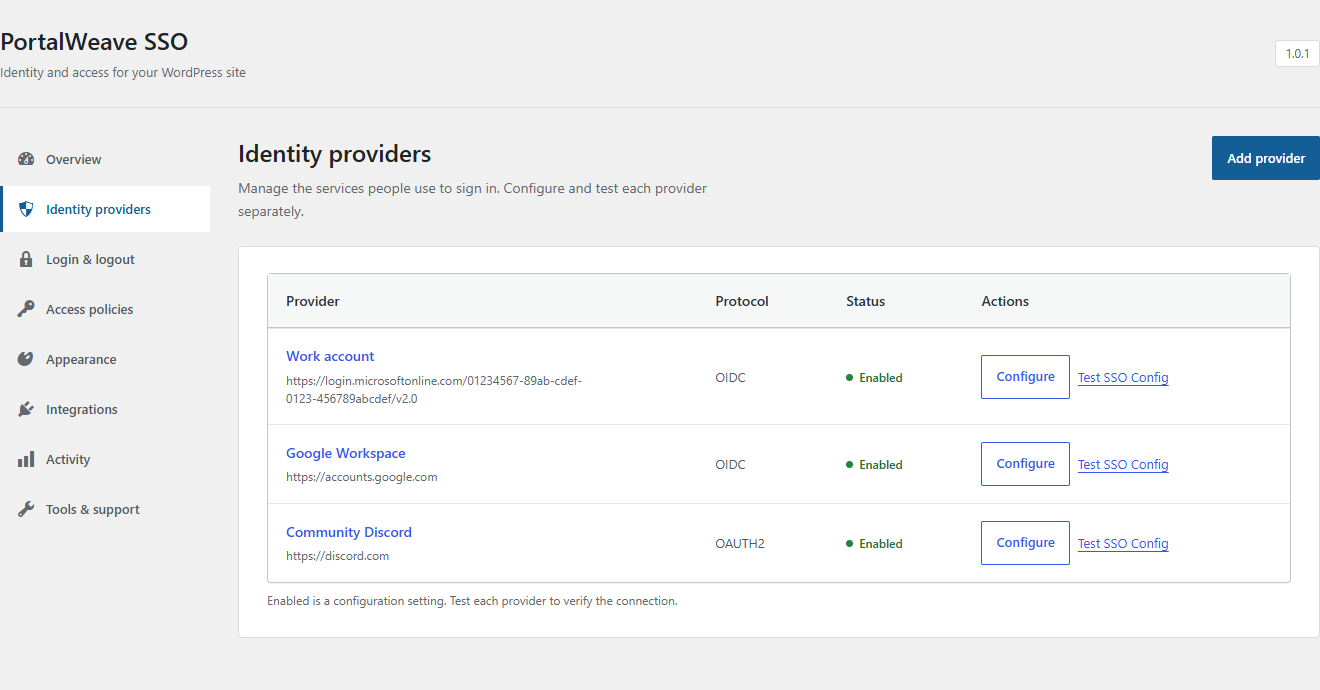
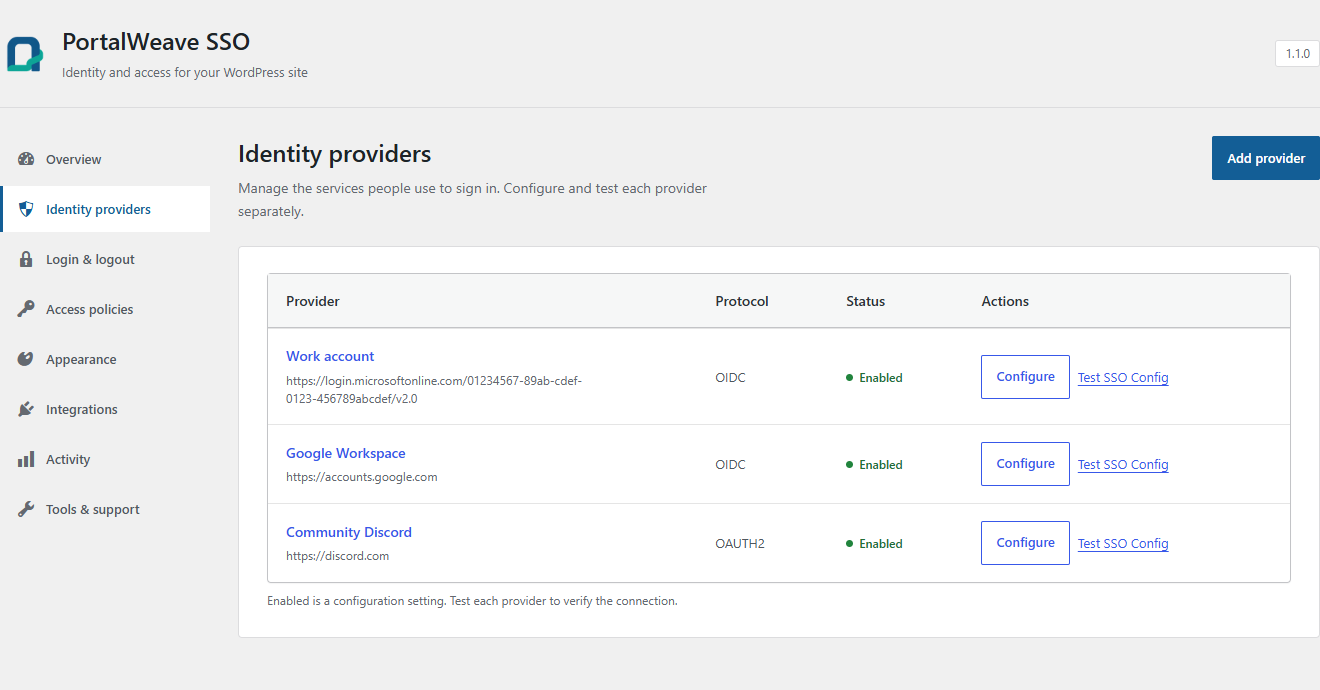
feat: display plugin branding throughout settings

Changed region(s): [[0.0, 0.0304, 0.2485, 0.1217], [0.9629, 0.0609, 0.9939, 0.0913]]

diff --git a/assets/admin.css b/assets/admin.css
@@ -47,6 +47,30 @@
     margin-bottom: 28px;
 }
 
+.portalweave-sso-brand {
+    display: flex;
+    align-items: center;
+    gap: 14px;
+    min-width: 0;
+}
+
+.portalweave-sso-brand-logo {
+    display: block;
+    flex: 0 0 48px;
+    width: 48px;
+    height: 48px;
+    object-fit: contain;
+}
+
+.portalweave-sso-brand-copy {
+    min-width: 0;
+    overflow-wrap: anywhere;
+}
+
+.portalweave-sso-header > .portalweave-sso-version {
+    flex-shrink: 0;
+}
+
 .portalweave-sso-header h1 {
     margin: 0;
     padding: 0;
@@ -1012,6 +1036,18 @@
         gap: 12px;
         padding: 20px 0;
         margin-bottom: 20px;
+    }
+
+    .portalweave-sso-brand {
+        align-items: flex-start;
+        gap: 10px;
+    }
+
+    .portalweave-sso-brand-logo {
+        flex-basis: 40px;
+        width: 40px;
+        height: 40px;
+        margin-top: 2px;
     }
 
     .portalweave-sso-header h1 {

diff --git a/includes/class-admin.php b/includes/class-admin.php
@@ -493,7 +493,7 @@ final class Admin {
         $notices = ['saved' => __('Changes saved.', 'portalweave-sso'), 'imported' => __('Configuration imported. Existing credentials were retained by app ID. Incomplete restored providers and login enforcement are disabled until you configure credentials and test SSO.', 'portalweave-sso'), 'sent' => __('Support message submitted to the WordPress mail service.', 'portalweave-sso')];
         // phpcs:ignore WordPress.Security.NonceVerification.Recommended -- Selects a display-only notice; error details come from the current administrator's server transient.
         $notice = self::request_key($_GET, 'portalweave_sso_notice');
-        echo '<div class="wrap portalweave-sso-admin"><header class="portalweave-sso-header"><div><h1>' . esc_html__('PortalWeave SSO', 'portalweave-sso') . '</h1><p>' . esc_html($network ? __('Single sign-on for your network', 'portalweave-sso') : __('Identity and access for your WordPress site', 'portalweave-sso')) . '</p></div><span class="portalweave-sso-version">' . esc_html(defined('PORTALWEAVE_SSO_VERSION') ? PORTALWEAVE_SSO_VERSION : '1.1.0') . '</span></header>';
+        echo '<div class="wrap portalweave-sso-admin"><header class="portalweave-sso-header"><div class="portalweave-sso-brand"><img class="portalweave-sso-brand-logo" src="' . esc_url(plugins_url('assets/branding/logo.png', PORTALWEAVE_SSO_FILE)) . '" srcset="' . esc_url(plugins_url('assets/branding/logo@2x.png', PORTALWEAVE_SSO_FILE)) . ' 2x" width="48" height="48" alt="" decoding="async"><div class="portalweave-sso-brand-copy"><h1>' . esc_html__('PortalWeave SSO', 'portalweave-sso') . '</h1><p>' . esc_html($network ? __('Single sign-on for your network', 'portalweave-sso') : __('Identity and access for your WordPress site', 'portalweave-sso')) . '</p></div></div><span class="portalweave-sso-version">' . esc_html(defined('PORTALWEAVE_SSO_VERSION') ? PORTALWEAVE_SSO_VERSION : '1.1.0') . '</span></header>';
         if ($notice === 'error') {
             $error = get_transient('portalweave_sso_admin_error_' . get_current_user_id());
             delete_transient('portalweave_sso_admin_error_' . get_current_user_id());

diff --git a/docs/admin-design.md b/docs/admin-design.md
@@ -65,6 +65,8 @@ The daily SVG has an accessible name and description, supplementary native hover
 
 The layout uses WordPress's inherited system font, white surfaces, cool gray borders and blue actions. Persistent task navigation provides hierarchy; the main content shows one task rather than a long page of unrelated controls. The setup workbench uses a genuine numbered sequence and a single main task beside its provider-console guidance, rather than repeated settings cards. On narrow screens the guide moves below the fields, progress wraps, navigation moves above content and the audit table scrolls within its container. Controls have visible keyboard focus, associated labels/help and generous touch targets. No remote fonts, frontend framework or production dependency was added.
 
+The shared site and network settings header pairs the product name with the local [PortalWeave SSO mark](branding/README.md), including during provider setup. The decorative image has empty alternative text beside the visible name, intrinsic dimensions and a high-resolution source. It scales from 48px to 40px on narrow screens; provider-specific logos retain their separate role in the chooser and setup guide.
+
 Provider artwork is local static media. Its per-file sources, hashes and retained terms are documented in `assets/providers/README.txt`; names and marks identify integrations without implying endorsement. Artwork does not automatically inherit the plugin code's GPL license. The chooser uses the actual provider marks rather than invented initials or unrelated service icons.
 
 The design work used the official [frontend-design skill](https://github.com/anthropics/skills/tree/main/skills/frontend-design) and [Playwright skill](https://github.com/openai/skills/tree/main/skills/.curated/playwright), with [WordPress menu guidance](https://developer.wordpress.org/plugins/administration-menus/) and [nonce guidance](https://developer.wordpress.org/apis/security/nonces/) informing integration with the host admin interface. Skills are development tools and are excluded from the plugin distribution.

diff --git a/docs/screenshots/README.md b/docs/screenshots/README.md
@@ -1,6 +1,6 @@
 # Product screenshot maintenance
 
-These PNGs show PortalWeave SSO 1.0.1 in a disposable WordPress 7.1.4 fixture. Providers, accounts, domains and audit records are fictional examples; they do not establish successful registration or authentication with an external provider.
+These PNGs were captured in disposable WordPress 7.1.4 fixtures. The gallery began with PortalWeave SSO 1.0.1; settings views containing the shared header were refreshed on 2026-11-07 from source after v1.1.0 to show the new plugin logo. Unchanged section and public views retain their earlier captures. Providers, accounts, domains and audit records are fictional examples; they do not establish successful registration or authentication with an external provider.
 
 Capture the actual interface with Playwright. Keep the WordPress styling and use a consistent desktop viewport; crop to the plugin workspace or the relevant complete section. Public sign-in captures must use an anonymous browser context. Use ordinary UI navigation to show the provider guide steps and expanded settings. Never fill or reveal a real secret for a screenshot.
 
